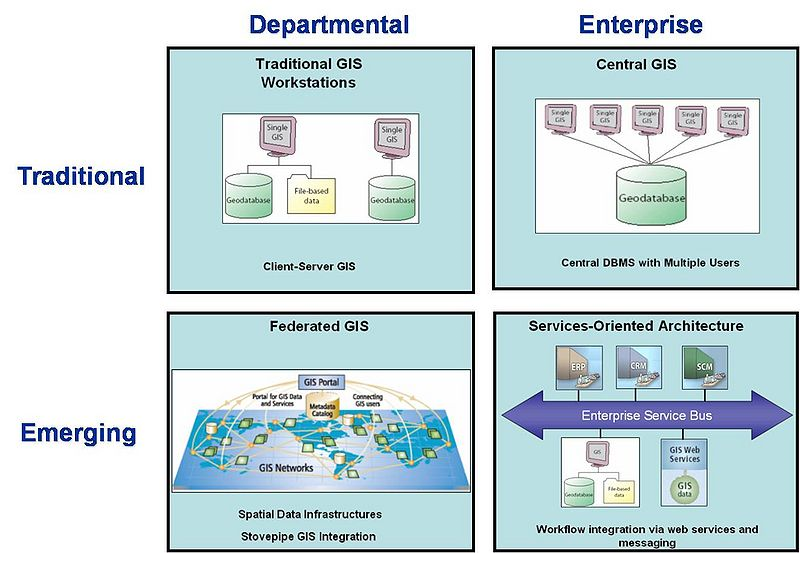
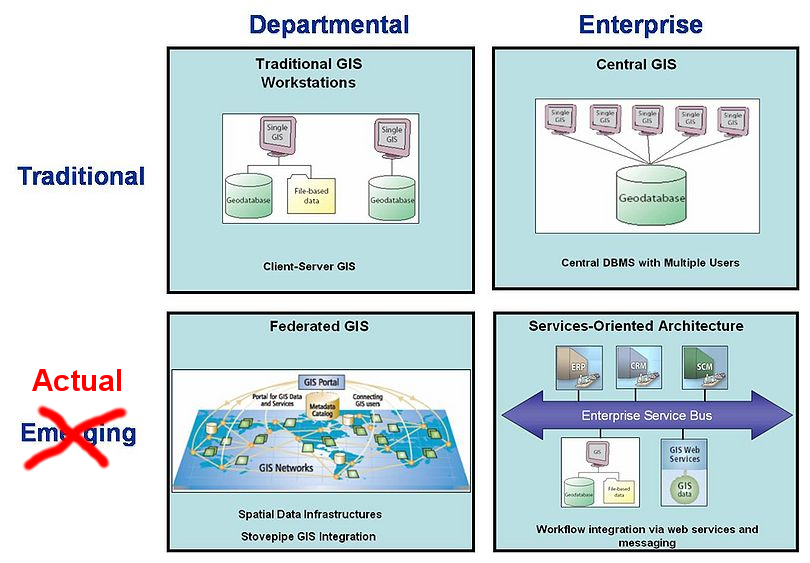
Evolución gis

Changed region(s): [[0.0309, 0.7247, 0.1543, 0.8455], [0.0309, 0.6643, 0.1543, 0.6945]]

diff --git a/modulo0/presentation/index.html b/modulo0/presentation/index.html
@@ -82,7 +82,7 @@
 					<section>
 						<h3>Evolución de los GIS</h3>
 						<img data-src="images/evogis.png" class="stretch" style="border:0px">
-						<br><small>© ESRI</small>
+						<br><small>© ESRI, modificado</small>
 					</section>
 					<section>
 						<h3>Evolución de los GIS</h3>
